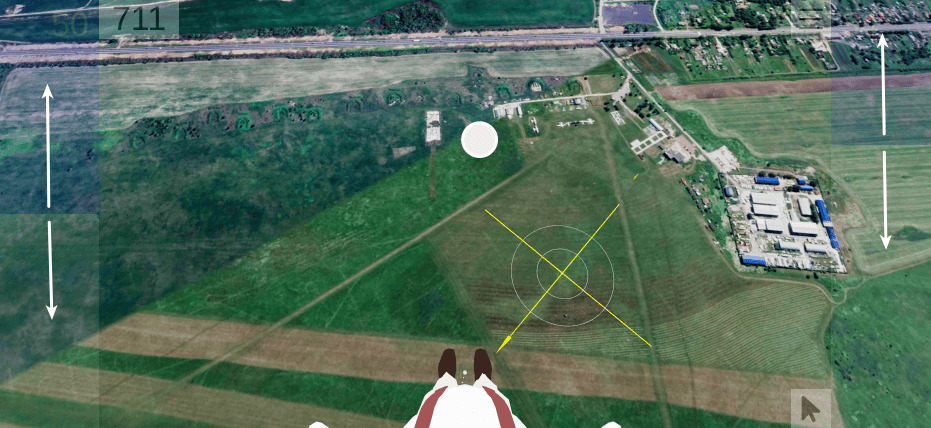
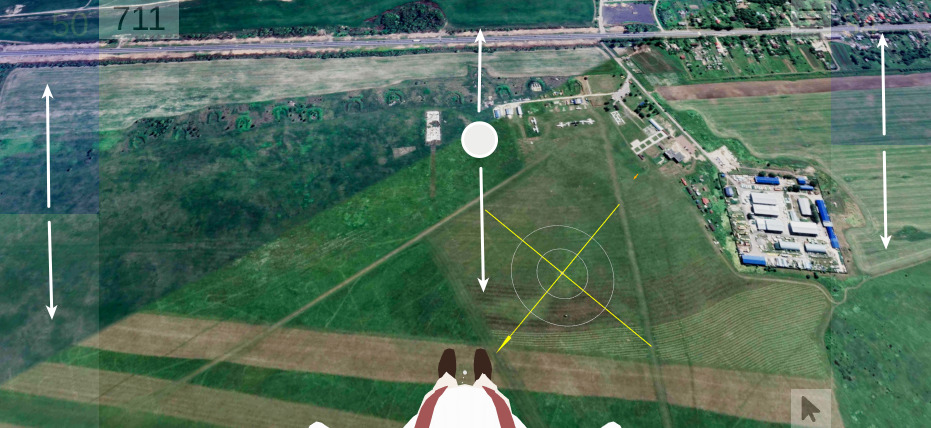
image and telegramm

diff --git a/src/entities/ui/home-page-about-app/home-page-about-app.component.tsx b/src/entities/ui/home-page-about-app/home-page-about-app.component.tsx
@@ -22,7 +22,7 @@ export const HomePageAboutApp = (props: HomePageAboutAppProps) => {
           },
           {
             title: 'Вид',
-            description: 'Нажимайте на экран, что бы поменять угол обзора игрока',
+            description: 'Нажимайте на экран или двигайте вверх или вниз, что бы поменять угол обзора игрока',
           },
         ]}
         title="Управление"

diff --git a/src/entities/ui/home-page-footer/home-page-footer.component.tsx b/src/entities/ui/home-page-footer/home-page-footer.component.tsx
@@ -11,7 +11,7 @@ import {
 import { FaTelegram } from 'react-icons/fa6';
 import { projectName } from 'shared/lib/configs';
 
-const telegramLink = 'https://t.me/';
+const telegramLink = 'https://t.me/post_aff';
 
 interface IProps {
   className?: string;
